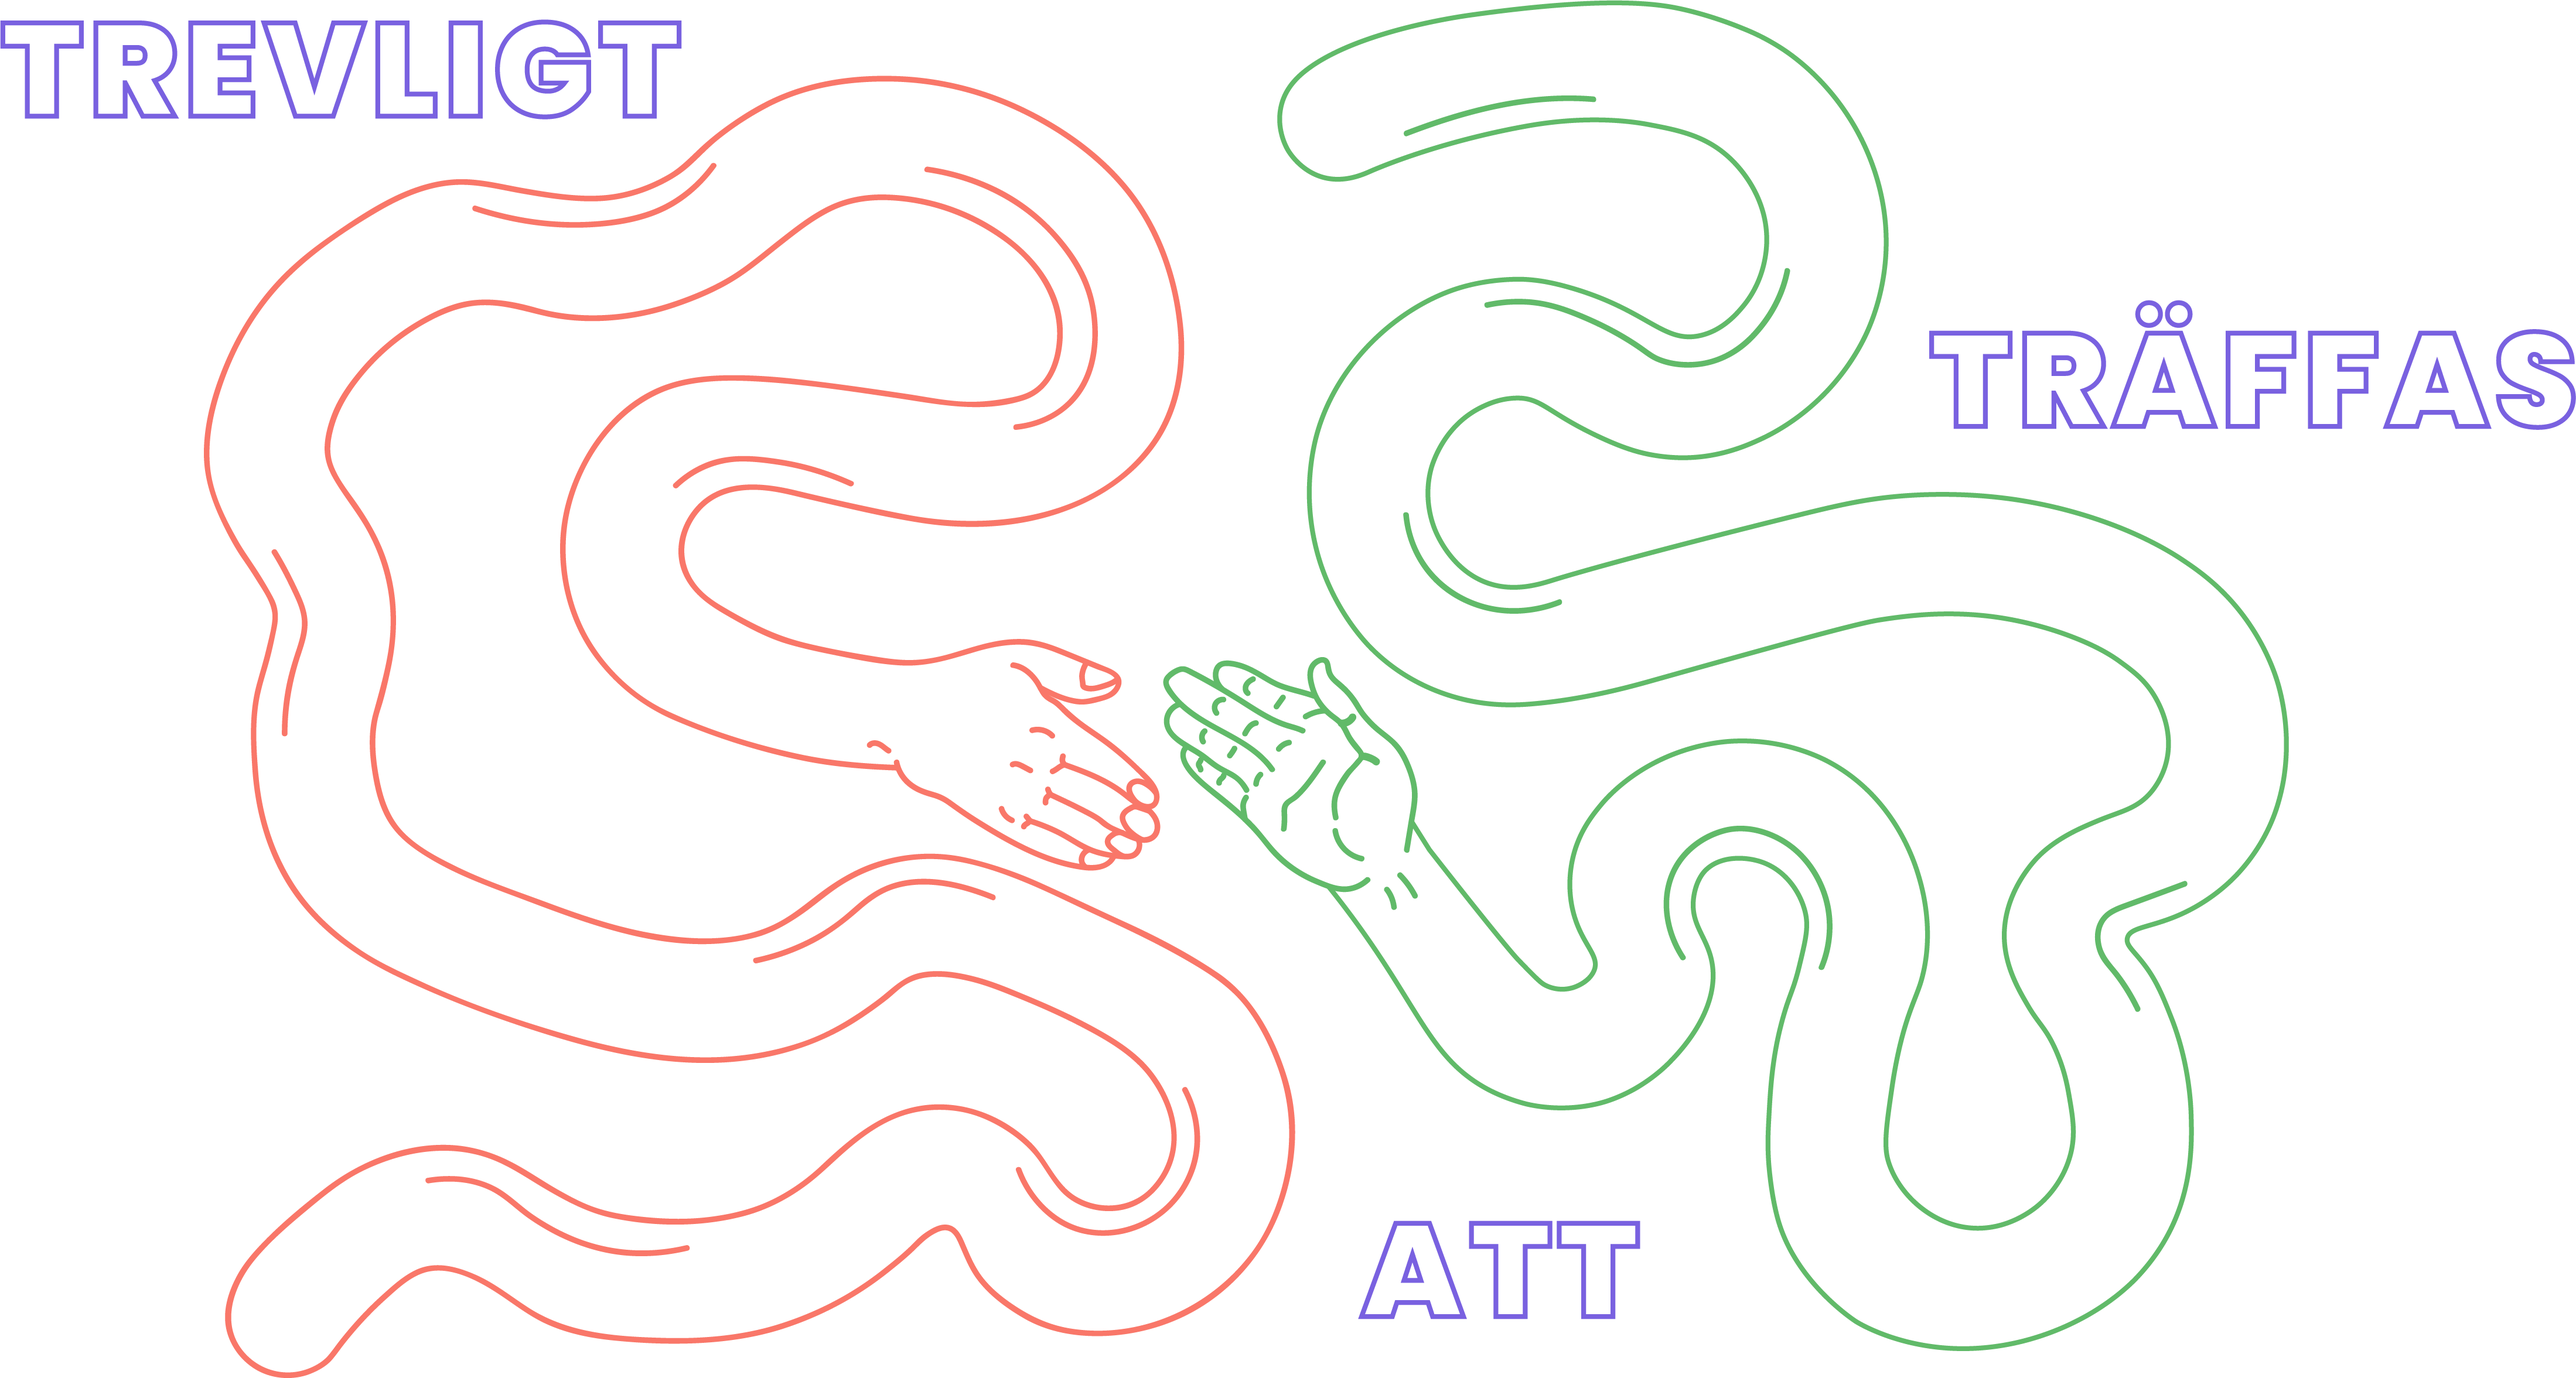
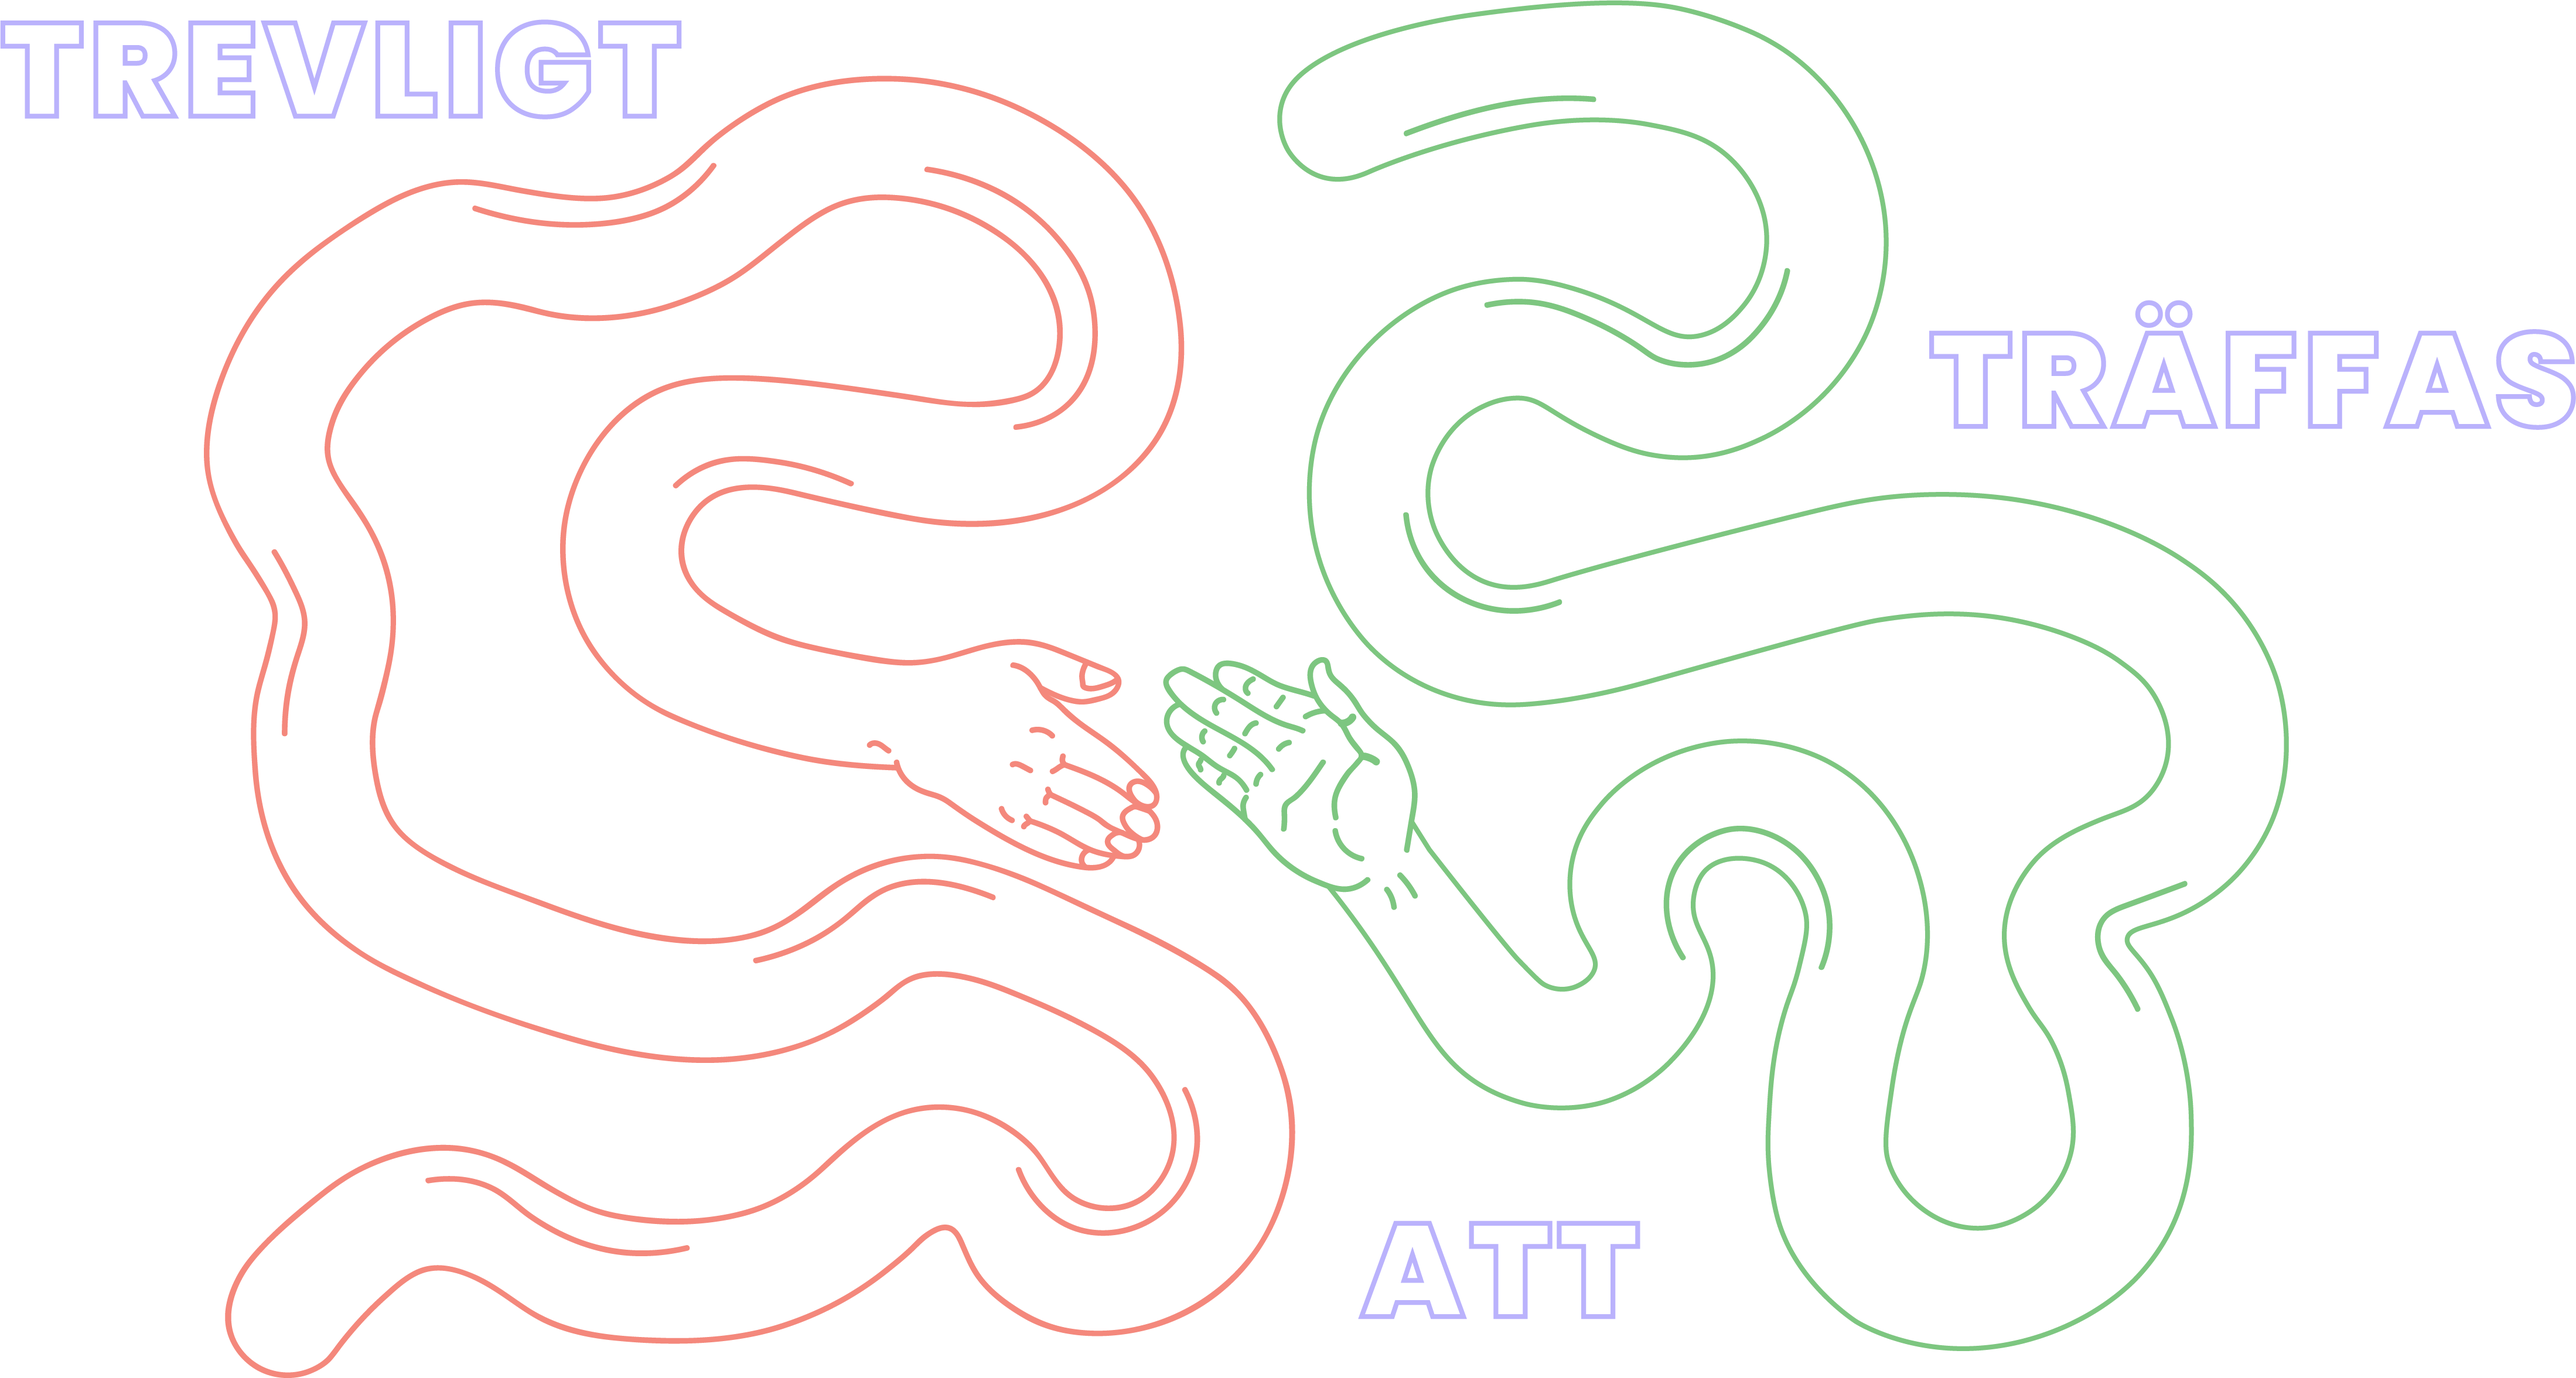
fixed some bugs

diff --git a/script.js b/script.js
@@ -1,11 +1,15 @@
 //spara i localstorage
 
-names = JSON.parse(localStorage.getItem('locname') || '[]');
+let names = JSON.parse(localStorage.getItem('storedNames') || '[]');
 
 const saveData = function () {
   const greetUser = document.getElementById('greet-user');
   const showImage = document.querySelector('.modal-wrap');
-  let data = document.getElementById('name').value.toLowerCase();
+  let data = document
+    .getElementById('name')
+    .value.toLowerCase()
+    .trim()
+    .replace(/\d+/g, '');
 
   if (names.length == 0) {
     names.push('Hejpa', 'Dejpa');
@@ -27,27 +31,29 @@ const saveData = function () {
     greetUser.innerHTML = `välkommen tillbaka <span class="name-input ">${data}</span>`;
     modalBtn.style.visibility = 'visible';
     showImage.innerHTML =
-      '<img src="./images/vi-mots-igen.png" alt="bild av händer" class="hands-two">';
+      '<img src="./images/vi-mots-igen.png" alt="bild av händer som gör en high-five" class="hands-two">';
   } else {
     names.push(data);
     greetUser.innerHTML = `välkommen <span class="name-input" class="hands">${data}</span>`;
     modalBtn.style.visibility = 'visible';
     showImage.innerHTML =
-      '<img src="./images/trevligt-att-traffas.png" alt="bild av händer" class="hands">';
+      '<img src="./images/trevligt-att-traffas.png" alt="bild av händer som hälsar" class="hands">';
   }
-  localStorage.setItem('locname', JSON.stringify(names));
+  localStorage.setItem('storedNames', JSON.stringify(names));
 };
 
-const submitName = document.querySelector('.submit');
-submitName.onclick = saveData;
+const form = document.querySelector('form');
 
 //localStorage.clear();
 
-//visa användaren och dölj den första modalen
+//visa användaren, dölj den första modalen och anropa saveData functionen
 
-submitName.addEventListener('click', function () {
+form.addEventListener('submit', function (e) {
+  e.preventDefault();
+  console.log(form.name.value);
   document.querySelector('.nextmodal').style.display = 'block';
   document.querySelector('.card').style.display = 'none';
+  saveData()
 });
 
 const GoBack = document.querySelector('.go-back');
@@ -59,13 +65,13 @@ GoBack.addEventListener('click', function () {
 
 //visa bubblorna
 
-var num = 20;
-var modalBtn = document.querySelector('.open');
-var modalContainer = document.querySelector('.modals');
-var holdModals = document.createDocumentFragment();
+let num = 20;
+let modalBtn = document.querySelector('.open');
+let modalContainer = document.querySelector('.modals');
+let holdModals = document.createDocumentFragment();
 
 for (var i = 0; i < num; i++) {
-  var div = document.createElement('div');
+  let div = document.createElement('div');
   div.classList.add('modal-drop');
   div.style.top = Math.floor(Math.random() * 100) + 'vh';
   div.style.left = Math.floor(Math.random() * 100) + 'vw';
@@ -84,4 +90,3 @@ modalBtn.addEventListener('click', function () {
     modalContainer.classList.add('active');
   }, 100);
 });
-

diff --git a/style.css b/style.css
@@ -1,5 +1,5 @@
 :root {
-    --main-color: cadetblue;
+    --main-color: #f4887c;
     --white: white;
     --transparent: transparent;
     --font-size-small: 0.7rem;
@@ -31,6 +31,96 @@
     -webkit-box-pack: center;
     -ms-flex-pack: center;
     justify-content: center;
+  }
+
+  /* bakgrunds animation */
+  
+  .bg-animation, .bg-animation > div {
+    position: absolute;
+    width: 100%;
+    height: 100%;
+    z-index: -1;
+  }
+  
+  .bg-animation > div {
+    will-change: opacity;
+  }
+  
+  .bg-animation .bg-1 {
+    background: -webkit-gradient(linear, left top, left bottom, color-stop(60%, #f4887c), to(#7DC680));
+    background: linear-gradient(180deg, #f4887c 60%, #7DC680 100%);
+  }
+  
+  .bg-animation .bg-2 {
+    background: linear-gradient(300deg, #bab2fc 60%, #7DC680 100%);
+    -webkit-animation: bg-fade-1 6s linear infinite;
+            animation: bg-fade-1 6s linear infinite;
+  }
+  
+  .bg-animation .bg-3 {
+    background: linear-gradient(10deg, #bab2fc 60%, #7DC680 100%);
+    -webkit-animation: bg-fade-2 6s linear infinite;
+            animation: bg-fade-2 6s linear infinite;
+  }
+  
+  @-webkit-keyframes bg-fade-1 {
+    0% {
+      opacity: 1;
+    }
+    33% {
+      opacity: 1;
+    }
+    66% {
+      opacity: 0;
+    }
+    100% {
+      opacity: 0;
+    }
+  }
+  
+  @keyframes bg-fade-1 {
+    0% {
+      opacity: 1;
+    }
+    33% {
+      opacity: 1;
+    }
+    66% {
+      opacity: 0;
+    }
+    100% {
+      opacity: 0;
+    }
+  }
+  
+  @-webkit-keyframes bg-fade-2 {
+    0% {
+      opacity: 1;
+    }
+    33% {
+      opacity: 0;
+    }
+    66% {
+      opacity: 0;
+    }
+    100% {
+      opacity: 1;
+    }
+  }
+  
+  @keyframes bg-fade-2 {
+    0% {
+      opacity: 1;
+    }
+    33% {
+      opacity: 0;
+    }
+    66% {
+      opacity: 0;
+    }
+    100% {
+      opacity: 1;
+    }
   }
   
   a,
@@ -191,6 +281,7 @@
   /* tillbaka knappen */
   
   .arrow {
+    vertical-align: middle;
     width: 15%;
   }
   
@@ -425,7 +516,10 @@
       margin: 1em;
       padding: 2em;
     }
-  
+    .wave {
+      width: 20%;
+    }
+    
     .hands, .hands-two {
       width: 90%;
     }

diff --git a/index.html b/index.html
@@ -10,6 +10,11 @@
     />
   </head>
   <body>
+    <div class="bg-animation">
+      <div class="bg-1"></div>
+      <div class="bg-2"></div>
+      <div class="bg-3"></div>
+    </div>
     <div class="card">
       <form>
         <p for="name" class="greeting-text">
@@ -18,6 +23,7 @@
         </p>
         <div class="input-field">
           <input
+            name="name"
             type="text"
             id="name"
             onClick="this.form.reset()"
@@ -26,15 +32,20 @@
           />
           <label for="name">Ditt namn..</label>
         </div>
-        <button type="button" class="submit" value="submit">Svara</button>
+        <button class="submit" type="submit" value="submit">
+          Svara
+        </button>
       </form>
     </div>
 
     <div class="nextmodal">
       <button class="custom-btn btn go-back">
-        <span>  <img src="./images/arrow.svg" alt="" class="arrow"> tillbaka</span>
+        <span>
+          <img src="./images/arrow.svg" alt="pil icon" class="arrow" />
+          tillbaka</span
+        >
       </button>
-      <img src="./images/hand.svg" alt="" class="wave" />
+      <img src="./images/hand.svg" alt="hand som vinkar" class="wave" />
       <h3 id="greet-user"></h3>
       <button class="open">stäng</button>
     </div>
@@ -46,6 +57,5 @@
     </div>
 
     <script src="./script.js"></script>
-    
   </body>
 </html>
